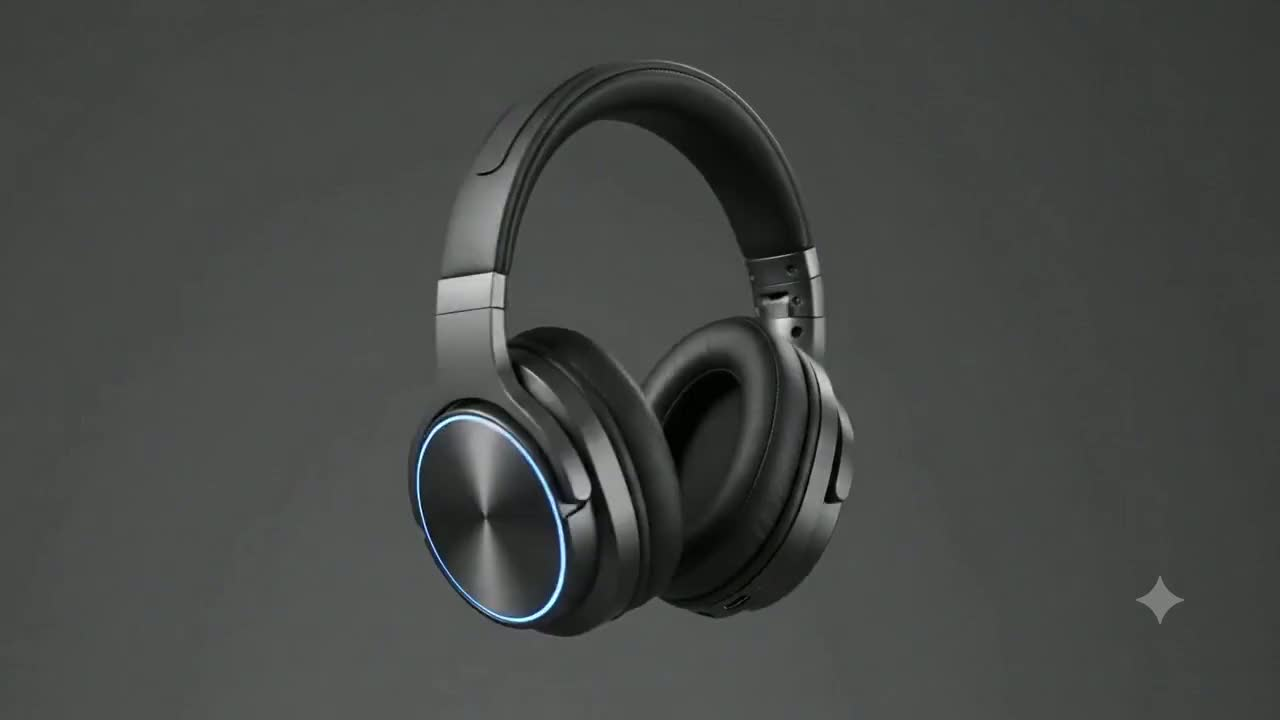
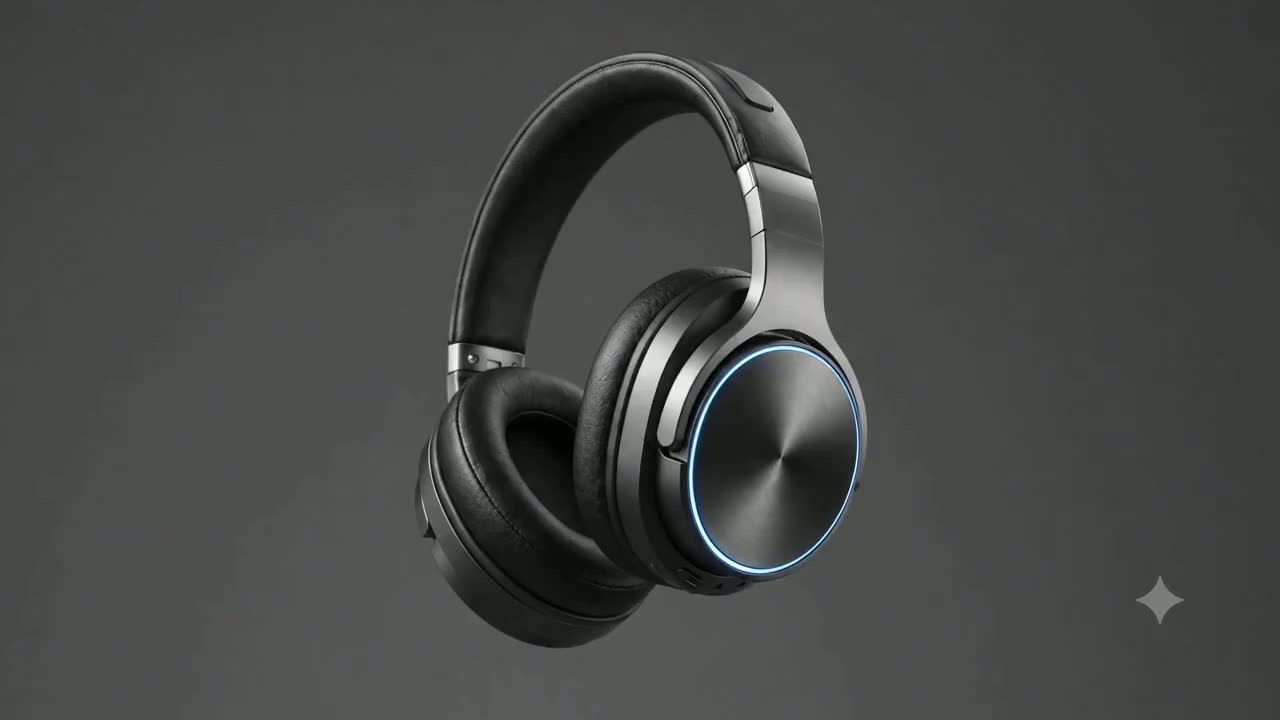
Fix spin drag direction in code, not by re-encoding the video
Reversing the video clip was the wrong lever: it's equivalent to
flipping the drag sign but leaves direction spread across an asset the
browser caches aggressively (which is why the reverse "did nothing" —
a stale cached video). Restore the original footage and flip the sign
in onMove instead, with a spin.invertDrag config toggle as the single
source of truth so direction can be changed later without touching the
video. Verified drag-right vs invertDrag land on opposite playhead
directions via the jsdom harness.

Changed region(s): [[0.3125, 0.0611, 0.6875, 0.9167]]

diff --git a/engine.js b/engine.js
@@ -241,6 +241,11 @@
     const vid=holder.querySelector('video');
     vid.src=cfg.video;
     const pxPerTurn=cfg.pxPerTurn||600; /* px of drag for one full 360deg turn */
+    /* drag→rotation direction. Default: dragging right advances the playhead so
+       the product surface tracks the finger. Set spin.invertDrag:true in the
+       config to reverse it — no video re-encode needed, this is the single
+       source of truth for spin direction. */
+    const dragSign=cfg.invertDrag?-1:1;
     let duration=0, current=0, dragging=false, startX=0, startTime=0, pending=null;
     vid.addEventListener('loadedmetadata',()=>{ duration=vid.duration||0; });
     function pos(e){ return e.touches?e.touches[0].clientX:e.clientX; }
@@ -256,7 +261,7 @@
     function onMove(e){
       if(!dragging||!duration) return;
       const dx=pos(e)-startX;
-      setTime(startTime-(dx/pxPerTurn)*duration);
+      setTime(startTime+dragSign*(dx/pxPerTurn)*duration);
     }
     function onUp(){ dragging=false; holder.classList.remove('dragging'); }
     holder.addEventListener('pointerdown',onDown);